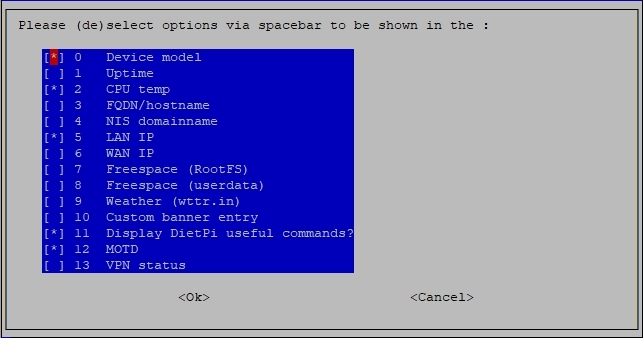
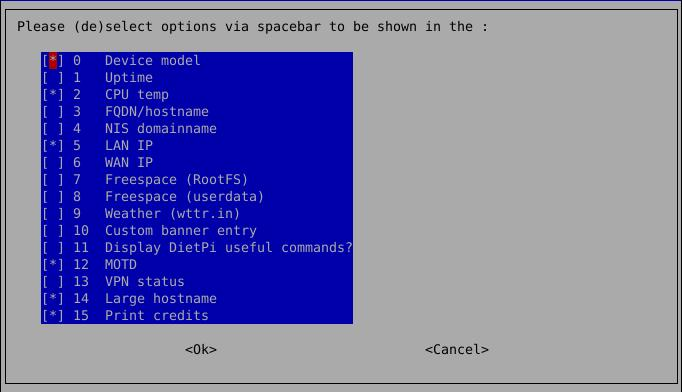
Dietpi tools docu updated
Due to changes in v8.4:
- screenshots updated
- tabs regarding file server and web server preference removed
- added further DDNS provider

Changed region(s): [[0.0, 0.0, 1.0, 1.0], [0.6221, 0.858, 0.7465, 0.9172], [0.2488, 0.858, 0.311, 0.9172]]

diff --git a/docs/dietpi_tools.md b/docs/dietpi_tools.md
@@ -12,7 +12,7 @@ It provides an easy access to all DietPi OS tools, and it could be accessed by r
 dietpi-launcher
 ```
 
-![DietPi-Launcher screenshot](assets/images/dietpi-launcher.jpg){: width="642" height="366" loading="lazy"}
+![DietPi-Launcher screenshot](assets/images/dietpi-launcher.jpg){: width="642" height="398" loading="lazy"}
 
 ## DietPi software
 
@@ -24,7 +24,7 @@ dietpi-software
 
 It is one of the core tools, enabling you to install or uninstall one or more [**DietPi optimised software**](../software/) titles.
 
-![DietPi-Software screenshot](assets/images/dietpi-software.jpg){: width="643" height="365" loading="lazy"}
+![DietPi-Software screenshot](assets/images/dietpi-software.jpg){: width="640" height="306" loading="lazy"}
 
 ### Software overview
 
@@ -34,7 +34,7 @@ It is one of the core tools, enabling you to install or uninstall one or more [*
 
     - Scroll through the list of available software - for more details check the [DietPi software list](../software/).
 
-    The list of optimised software is long. You either browse the list or use the option **Search**.
+    The list of optimised software is long. You either browse the list or use the option **Search Software**.
 
     - To install software on your DietPi, select it in the list and press ++space++ to add it to the installation list. If you change your mind, hit ++space++ again to remove it.
 
@@ -62,25 +62,6 @@ It is one of the core tools, enabling you to install or uninstall one or more [*
 
     ![DietPi-Software SSH Server menu screenshot](assets/images/dietpi-software-ssh-selection.jpg){: width="550" height="320" loading="lazy"}
 
-=== "File Server"
-
-    DietPi-Software allows you to easily choose a method of **accessing the files** on your DietPi system.
-    Installing one of DietPi's file server choices will allow you to access and share files on your DietPi system.
-
-    DietPi will then automatically install and setup the file server for you. DietPi will also clean and remove any previous file server from your system.
-
-    The **default destination** directory for file servers is `/mnt/dietpi_userdata`.
-
-    The reasons for choosing **ProFTPD** over **Samba** may be:
-
-    - ProFTPD outperforms Samba in all aspects of performance.
-    - ProFTPD can max out the RPi 100 Mbit connection with minimal CPU usage.
-    - Samba server on a RPi v1 will hit 100% CPU usage at 40 Mbit transfer rate.
-
-    ![DietPi-Software File Server menu screenshot](assets/images/dietpi-software-fileserver-selection.jpg){: width="550" height="342" loading="lazy"}
-
-    See [file servers overview](../software/file_servers/) for further information.
-
 === "Log System"
 
     Various logging methods can be selected from lightweight to full.
@@ -91,18 +72,6 @@ It is one of the core tools, enabling you to install or uninstall one or more [*
     ![DietPi-Software Log System menu screenshot](assets/images/dietpi-software-log-system-selection.jpg){: width="550" height="370" loading="lazy"}
 
     See [log system choices](../software/log_system/) for further details.
-
-=== "Webserver Preference"
-
-    The DietPi **Webserver Preference** system allows you to choose your favourite webserver for use in DietPi installations. If not decided, read more on [Which WEBSERVER to CHOOSE ?](../software/webserver_stack/#which-web-application-stack-is-best-for-you)
-
-    !!! hint "Automatic selection"
-
-        When you select any software for installation that requires a webserver (e.g. Pi-hole, Nextcloud, Webmin, installed via *Browse Software*), DietPi will automatically install, configure and optimize your chosen *Webserver Preference*.  
-
-        As a result you will not need to manually select/install a webserver stack. DietPi will do it all for you.
-
-    ![DietPi-Software Webserver Preference menu screenshot](assets/images/dietpi-software-webserver-preference.png){: width="550" height="340" loading="lazy"}
 
 === "User Data Location"
 
@@ -189,7 +158,8 @@ When you execute the certificate installation it also installs it for your selec
 
 ### DietPi VPN
 
-DietPi-VPN is a combination of OpenVPN installation and DietPi front end GUI. Allowing all VPN users to quickly and easily connect to any NordVPN, ProtonVPN, or any other server that uses OpenVPN in TCP or UDP, using only open source software.
+DietPi-VPN is a combination of OpenVPN installation and DietPi front end GUI. Allowing all VPN users to quickly and easily connect to any NordVPN, ProtonVPN, or any other server that uses OpenVPN in TCP or UDP, using only open source software.  
+Run `dietpi-vpn`.
 
 ![DietPi-VPN screenshot](assets/images/dietpi-vpn.jpg){: width="642" height="300" loading="lazy"}
 
@@ -212,7 +182,8 @@ DietPi-VPN is a combination of OpenVPN installation and DietPi front end GUI. Al
 
 ### DietPi DDNS
 
-DietPi-DDNS is a generic Dynamic DNS (DDNS) client. It can be used to setup a cron job which updates your dynamically changing public IP address every defined amount of minutes against a DDNS provider, so that your public domain stays valid. It supports No-IP and replaces the No-IP client, which was available as install option on previous DietPi versions.
+DietPi-DDNS is a generic Dynamic DNS (DDNS) client. It can be used to setup a cron job which updates your dynamically changing public IP address every defined amount of minutes against a DDNS provider, so that your public domain stays valid. It supports No-IP and replaces the No-IP client, which was available as install option on previous DietPi versions.  
+Run `dietpi-ddns`.
 
 ![DietPi-DDNS main menu screenshot](assets/images/dietpi-ddns.jpg){: width="656" height="256" loading="lazy"}
 
@@ -221,6 +192,8 @@ DietPi-DDNS is a generic Dynamic DNS (DDNS) client. It can be used to setup a cr
     - DuckDNS: <https://www.duckdns.org/>
     - No-IP: <https://www.noip.com/>
     - Dynu: <https://www.dynu.com/>
+    - FreeDNS: <https://freedns.afraid.org/>
+    - OVH: <https://docs.ovh.com/gb/en/domains/hosting_dynhost/>
     - Alternatively you may use any other provider which has an API URL for updating your dynamic IP address.
 
 === "CLI"
@@ -472,7 +445,7 @@ Run `dietpi-drive_manager`.
 Defines software packages to start when the DietPi OS boots up. Example, boot into the desktop with Kodi running.  
 Run `dietpi-autostart`.
 
-![DietPi-Autostart screenshot](assets/images/dietpi-autostart.jpg){: width="644" height="368" loading="lazy"}
+![DietPi-Autostart screenshot](assets/images/dietpi-autostart.jpg){: width="640" height="458" loading="lazy"}
 
 !!! info "Autostart option in `dietpi.txt` (first initial boot)"
     When booting the DietPi system the first time, the autostart option can also be set via the file `dietpi.txt`. See option  
@@ -526,7 +499,8 @@ In this case you have to e.g. install a sound program package via `dietpi-softwa
 
 ### DietPi survey
 
-DietPi Survey allows the DietPi project to obtain general information regarding your system and installed software.
+DietPi Survey allows the DietPi project to obtain general information regarding your system and installed software.  
+Run `dietpi-survey`.
 
 ???+ important "Privacy and goals"
 
@@ -721,7 +695,7 @@ The following commands are non-interactive, but error-handled wrappers for `apt-
 Enables the configuration of the initial banner, displayed on logon.
 Run `dietpi-banner`.
 
-![DietPi-Banner config menu](assets/images/dietpi-banner_config.jpg){: width="643" height="338" loading="lazy"}
+![DietPi-Banner config menu](assets/images/dietpi-banner_config.jpg){: width="640" height="368" loading="lazy"}
 
 Using these settings you can configure the information displayed initially, choosing the details displayed initially. See below an example where 4 options are selected:
 
